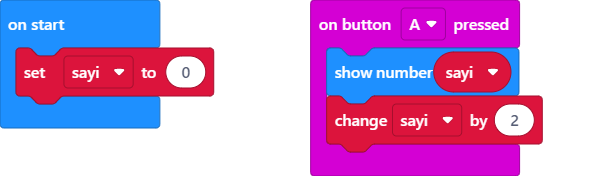
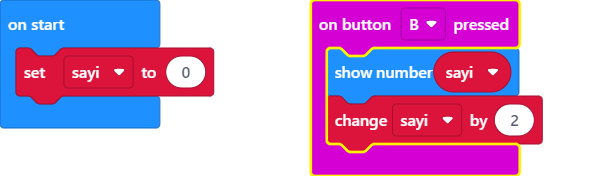
b  butonuna alındı

Changed region(s): [[0.5152, 0.0, 0.8788, 1.0], [0.6667, 0.1136, 0.7273, 0.1705]]

diff --git a/main.ts b/main.ts
@@ -1,4 +1,4 @@
-input.onButtonPressed(Button.A, function () {
+input.onButtonPressed(Button.B, function () {
     basic.showNumber(sayi)
     sayi += 2
 })
